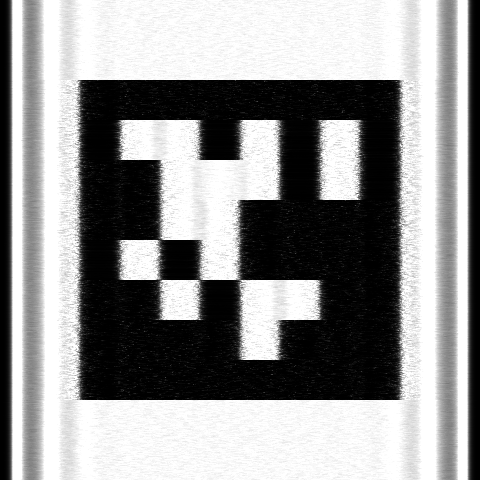
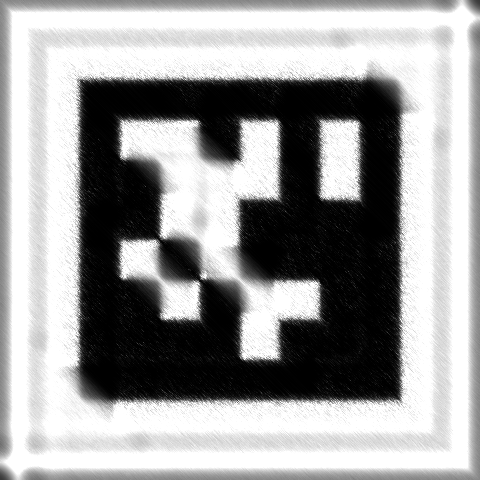
Wiener and Richardson Plots made

diff --git a/linear_motion_comparison.py b/linear_motion_comparison.py
@@ -1,0 +1,228 @@
+import numpy as np
+import cv2
+import csv
+import matplotlib.pyplot as plt
+
+from skimage.io import imread
+from skimage.restoration import wiener
+from skimage.restoration import richardson_lucy
+from pupil_apriltags import Detector
+from file_eval import eval_image
+
+# Define Parameters
+folder = 'Project/AprilTag/BlurredAprilTags/'
+comp_image = 'diagonal_32pixel.png'
+ref = imread(folder + 'diagonal_0pixel.png', as_gray=True)
+blur_type = 'diagonal'                  # 'horizontal', 'vertical', or 'diagonal'
+motion_pixels = 32
+sigma = list(range(0, 28, 2))            # Noise stddev
+K = 0.005                                # Wiener SNR
+iterations = 20                          # Richardson-Lucy iterations
+
+# Helper Functions
+def deblur_image(img, motion_pixels, sigma, K):
+    # adding noise to the image 
+    rng = np.random.default_rng(0)
+    img_n = np.clip(img + rng.normal(0, sigma, img.shape), 0, 255).astype(np.float32)
+
+    # Define Kernel for Wiener Deconvolution
+    blurred_pixels = motion_pixels + 1
+
+    if blur_type == 'horizontal':
+        kernel = np.ones((1, blurred_pixels), dtype=np.float32) / blurred_pixels
+    elif blur_type == 'vertical':
+        kernel = np.ones((blurred_pixels, 1), dtype=np.float32) / blurred_pixels
+    elif blur_type == 'diagonal':
+        kernel = np.eye(blurred_pixels, dtype=np.float32) / blurred_pixels
+
+    # Wiener Deconvolution
+    pad = motion_pixels     # pad image to remove edge effects of the deconvolution
+    img_pad = np.pad(img_n /255.0, pad, mode='constant', constant_values=1.0)
+    reg = np.zeros((3, 3))
+    reg[1, 1] = 1
+    restoredW = wiener(img_pad, kernel, balance=K, reg=reg, clip=False)
+    restoredW = restoredW[pad:-pad, pad:-pad] * 255.0
+    restoredW = np.nan_to_num(restoredW, nan=255.0)            # NaN -> white (background)
+    restoredW = np.clip(restoredW, 0, 255).astype(np.uint8)
+
+    psnr_b, ssim_b = eval_image(ref, img_n)
+    psnr_r, ssim_r = eval_image(ref, restoredW.astype(np.float32))
+
+    # Richardson-Lucy Deconvolution
+    pad = motion_pixels     # pad image to remove edge effects of the deconvolution
+    img_pad = np.pad(img_n /255.0, pad, mode='constant', constant_values=1.0)
+    restoredRL = richardson_lucy(img_pad, kernel, num_iter=iterations, clip=False)
+    restoredRL = restoredRL[pad:-pad, pad:-pad] * 255.0
+
+    restoredRL = np.nan_to_num(restoredRL, nan=255.0)            # NaN -> white (background)
+    restoredRL = np.clip(restoredRL, 0, 255).astype(np.uint8)
+
+    psnr_rl, ssim_rl = eval_image(ref, restoredRL.astype(np.float32))
+
+    return restoredW, restoredRL, img_n, psnr_b, ssim_b, psnr_r, ssim_r, psnr_rl, ssim_rl
+
+
+def detect_apriltag_center(detector, image, tag_id):
+    tags = detector.detect(image.astype(np.uint8))
+    for tag in tags:
+        if tag.tag_id == tag_id:
+            return tag.center
+    return None
+
+
+def position_error(detected_center, true_center):
+    if detected_center is None:
+        return None
+    dx = detected_center[0] - true_center[0]
+    dy = detected_center[1] - true_center[1]
+    return np.sqrt(dx**2 + dy**2)
+
+img = imread(folder + comp_image, as_gray=True).astype(np.float32)
+
+if img.max() <= 1:
+    img = img * 255
+
+if ref.max() <= 1:
+    ref = ref * 255
+
+# detect the AprilTag center from sharp reference image
+detector = Detector(families='tag36h11')
+reference_tags = detector.detect(ref.astype(np.uint8))
+
+true_tag = reference_tags[0]
+tag_id = true_tag.tag_id
+true_center = true_tag.center
+
+with open('results_' + blur_type + '_' + str(motion_pixels) + 'pixel.csv', 'w', newline='') as f:
+    writer = csv.writer(f)
+    writer.writerow(['Noise Sigma', 'PSNR Blurred', 'SSIM Blurred',
+                     'PSNR Wiener', 'SSIM Wiener', 'PSNR RL', 'SSIM RL',
+                     'Position Error Blurred (pixels)', 'Position Error Wiener (pixels)',
+                     'Position Error RL (pixels)', 'Detected Blurred', 'Detected Wiener', 'Detected RL'])
+    for s in sigma:
+        restoredW, restoredRL, img_n, psnr_b, ssim_b, psnr_r, ssim_r, psnr_rl, ssim_rl = deblur_image(img, motion_pixels, s, K)
+
+        center_b = detect_apriltag_center(detector, img_n, tag_id)
+        center_w = detect_apriltag_center(detector, restoredW, tag_id)
+        center_rl = detect_apriltag_center(detector, restoredRL, tag_id)
+
+        err_b = position_error(center_b, true_center)
+        err_w = position_error(center_w, true_center)
+        err_rl = position_error(center_rl, true_center)
+
+        writer.writerow([s, psnr_b, ssim_b, psnr_r, ssim_r, psnr_rl, ssim_rl,
+                         err_b, err_w, err_rl,
+                         int(center_b is not None), int(center_w is not None), int(center_rl is not None)])
+
+restoredW, restoredRL, img_n, psnr_b, ssim_b, psnr_r, ssim_r, psnr_rl, ssim_rl = deblur_image(img, motion_pixels, 0, K)
+cv2.imwrite(folder + 'restored_wiener.png', restoredW)
+cv2.imwrite(folder + 'restored_rl.png', restoredRL)
+
+restoredW, restoredRL, img_n, psnr_b, ssim_b, psnr_r, ssim_r, psnr_rl, ssim_rl = deblur_image(img, motion_pixels, 5, K)
+cv2.imwrite(folder + 'restored_wiener_5n.png', restoredW)
+cv2.imwrite(folder + 'restored_rl_5n.png', restoredRL)
+
+restoredW, restoredRL, img_n, psnr_b, ssim_b, psnr_r, ssim_r, psnr_rl, ssim_rl = deblur_image(img, motion_pixels, 10, K)
+cv2.imwrite(folder + 'restored_wiener_10n.png', restoredW)
+cv2.imwrite(folder + 'restored_rl_10n.png', restoredRL)
+
+
+# PLOTS (both the images and the graphs)
+restoredW, restoredRL, img_n, psnr_b, ssim_b, psnr_w, ssim_w, psnr_rl, ssim_rl = deblur_image(img, motion_pixels, 0, K)
+
+fig, ax = plt.subplots(1, 4, figsize=(16, 5), num=1)
+
+ax[0].imshow(ref, cmap='gray', vmin=0, vmax=255)
+ax[0].set_title('Original')
+
+ax[1].imshow(img_n, cmap='gray', vmin=0, vmax=255)
+ax[1].set_title('Blurred')
+
+ax[2].imshow(restoredW, cmap='gray', vmin=0, vmax=255)
+ax[2].set_title('Wiener Restored')
+
+ax[3].imshow(restoredRL, cmap='gray', vmin=0, vmax=255)
+ax[3].set_title('Richardson-Lucy Restored')
+
+for a in ax:
+    a.axis('off')
+
+plt.tight_layout()
+plt.show()
+
+# Plot Results
+filename = 'results_' + blur_type + '_' + str(motion_pixels) + 'pixel.csv'
+data = np.genfromtxt(filename, delimiter=',', skip_header=1)
+
+noise = data[:, 0]
+
+# PSNR Values
+psnr_b = data[:, 1]
+psnr_w = data[:, 3]
+psnr_rl = data[:, 5]
+
+# SSIM Values
+ssim_b = data[:, 2]
+ssim_w = data[:, 4]
+ssim_rl = data[:, 6]
+
+# Position Error Values
+error_b = data[:, 7]
+error_w = data[:, 8]
+error_rl = data[:, 9]
+
+# Create Figure
+fig, ax = plt.subplots(1, 3, figsize=(18, 5), num=2)
+
+fig.suptitle('Linear Motion Deblurring Results for ' + blur_type +
+             ' ' + str(motion_pixels) + ' Pixel Blur, with respect to noise')
+
+# PSNR Graph
+ax[0].plot(noise, psnr_b, 'o--', label='Blurred')
+ax[0].plot(noise, psnr_w, 's-', label='Wiener restored')
+ax[0].plot(noise, psnr_rl, '^-', label='Richardson-Lucy restored')
+
+ax[0].set_title('PSNR (dB)')
+ax[0].set_xlabel('Noise std dev')
+ax[0].set_ylabel('PSNR (dB)')
+ax[0].legend()
+ax[0].grid(True, alpha=0.3)
+
+# SSIM Graph
+ax[1].plot(noise, ssim_b, 'o--', label='Blurred')
+ax[1].plot(noise, ssim_w, 's-', label='Wiener restored')
+ax[1].plot(noise, ssim_rl, '^-', label='Richardson-Lucy restored')
+
+ax[1].set_title('SSIM')
+ax[1].set_xlabel('Noise std dev')
+ax[1].set_ylabel('SSIM')
+ax[1].legend()
+ax[1].grid(True, alpha=0.3)
+
+# position error graph
+ax[2].plot(noise, error_b, 'o--', label='Blurred')
+ax[2].plot(noise, error_w, 's-', label='Wiener restored')
+ax[2].plot(noise, error_rl, '^-', label='Richardson-Lucy restored')
+
+# Mark where AprilTag was not detected
+ax[2].plot(noise[np.isnan(error_b)],       # use isnan to find when teh tag is not detected
+           np.zeros(sum(np.isnan(error_b))),
+           'x', color='tab:blue', markersize=9, label='Blurred: not detected')
+
+ax[2].plot(noise[np.isnan(error_w)],
+           np.zeros(sum(np.isnan(error_w))),
+           'x', color='tab:orange', markersize=9, label='Wiener: not detected')
+
+ax[2].plot(noise[np.isnan(error_rl)],
+           np.zeros(sum(np.isnan(error_rl))),
+           'x', color='tab:green', markersize=9, label='RL: not detected')
+
+ax[2].set_title('Position Error (pixels)')
+ax[2].set_xlabel('Noise std dev')
+ax[2].set_ylabel('Position Error (pixels)')
+ax[2].legend()
+ax[2].grid(True, alpha=0.3)
+
+plt.tight_layout()
+plt.savefig('linear_deblurring_results.png', dpi=300)
+plt.show()
